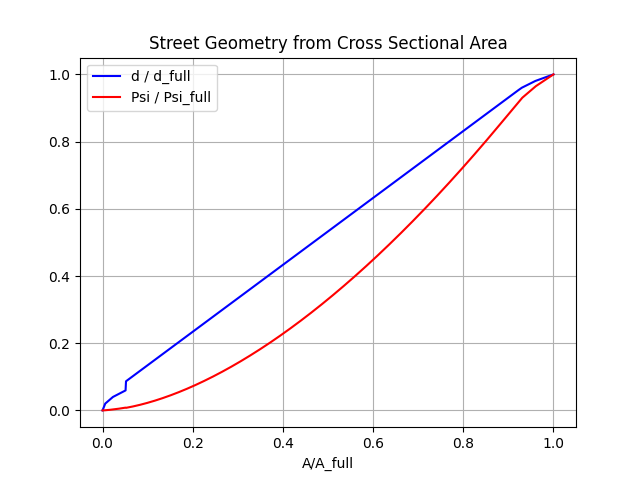
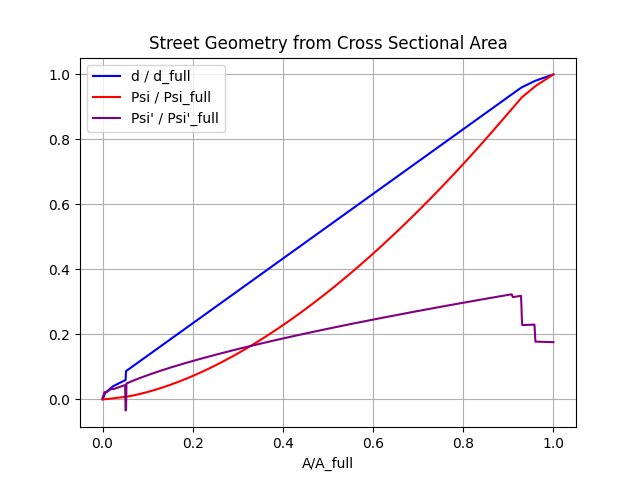
fixed stuff

diff --git a/app/model.py b/app/model.py
@@ -48,7 +48,27 @@ class Model:
         # Setup coupling
         self.coupling = {"subcatchmentRunoff": np.zeros(self.data.shape[0]), "drainCapture": np.zeros(self.data.shape[0]), "drainOverflow": np.zeros(self.data.shape[0])}
 
+        # setup storage for observables
+        self.subcatchmentDepths = []
+        self.runoffs = []
+        self.streetDepths = []
+        self.streetEdgeAreas = []
+        self.sewerDepths = []
+        self.sewerEdgeAreas = []
+        self.drainOverflows = []
+        self.drainInflows = []
+        self.peakDischarges = []
+
+
+
         # TODO: Add whatever we want to report (e.g. depth, flow, etc)
+
+    def run(self):
+        for n in range(len(self.ts)):
+            self.step(n)
+            pprint(f"peakDischarges: {self.peakDischarges}")
+        visualize(self.subcatchment, self.street, self.street.yFull, self.sewer, 0.5, self.subcatchmentDepths, self.runoffs, self.streetDepths, self.streetEdgeAreas, self.sewerDepths, self.sewerEdgeAreas, self.drainOverflows, self.drainInflows, self.rainfallTimes, self.rainfall, self.peakDischarges, self.dt, file=f"{file}{dt}dt", cmap=plt.cm.plasma, fps=5 )
+        
 
 
     def step(self, n):
@@ -56,32 +76,46 @@ class Model:
         newCoupling = {"subcatchmentRunoff": np.zeros(self.data.shape[0]), "drainCapture": np.zeros(self.data.shape[0]), "drainOverflow": np.zeros(self.data.shape[0])}
 
         # Subcatchment Update
-        _, tempRunoff = self.subcatchment.update(self.ts[n], self.dt, self.rain[n])
+        subcatchmentDepth, tempRunoff = self.subcatchment.update(self.ts[n], self.dt, self.rain[n])
         # map runoff to correct indexes and add to coupling terms
         for i in range(len(tempRunoff)):
             # pprint(f' street id for subcatchment: {self.subcatchment.G.vs[i]["coupledStreet"]-1}')
             newCoupling["subcatchmentRunoff"][self.subcatchment.G.vs[i]["coupledStreet"]-1] = tempRunoff[i]
 
         # Street Update
-        _, _, tempCoupling, _ = self.street.update(self.ts[n],self.dt,self.coupling)
+        streetDepth, streetEdgeArea, tempCoupling, streetPeakDischarge = self.street.update(self.ts[n],self.dt,self.coupling)
         # pprint(f"after street: {tempCoupling}")
         newCoupling["drainCapture"] = tempCoupling["drainCapture"]
 
 
         # Sewer Update
-        _, _, tempCoupling, _ = self.sewer.update(self.ts[n],self.dt,self.coupling)
+        sewerDepth, sewerEdgeArea, tempCoupling, sewerPeakDischarge = self.sewer.update(self.ts[n],self.dt,self.coupling)
         newCoupling["drainOverflow"] = tempCoupling["drainOverflow"]
 
-        pprint(self.sewer.G.es["Q1"])
+        # pprint(self.sewer.G.es["Q1"])
 
         # Call observable functions
+        self.subcatchmentDepths.append(subcatchmentDepth)
+        self.runoffs.append(np.zeros(self.subcatchment.G.vcount()))
+        self.streetDepths.append(streetDepth)
+        self.streetEdgeAreas.append(streetEdgeArea)
+        self.sewerDepths.append(sewerDepth)
+        self.sewerEdgeAreas.append(sewerEdgeArea)
+        self.drainOverflows.append(np.zeros(self.street.G.vcount()))
+        self.drainInflows.append(np.zeros(self.sewer.G.vcount()))
+        self.peakDischarges.append(streetPeakDischarge+sewerPeakDischarge)
+
+        
         # pprint(f"New Coupling: {newCoupling}")
 
         # Update Coupling Terms
         self.coupling["subcatchmentRunoff"] = newCoupling["subcatchmentRunoff"]
         self.coupling["drainCapture"] = newCoupling["drainCapture"]
         self.coupling["drainOverflow"] = newCoupling["drainOverflow"]
+
         
+
+
         
 
 
@@ -97,6 +131,6 @@ if __name__ == "__main__":
             }
     dt = 1800
     model = Model(file, dt, rainInfo, oldwaterRatio=0.2)
-    for i in range(100):
-        model.step(i)
+    model.run()
+
 

diff --git a/app/hydraulicGraph.py b/app/hydraulicGraph.py
@@ -205,8 +205,8 @@ class HydraulicGraph:
                 if self.G.vs[nid]["drain"] == 1:
                     # pprint(f"Previous Q: {self.G.es[eid]["Q1Prev"]}\nPrevious A: {self.G.es[eid]["A1Prev"]}")
                     coupledInputs["drainCapture"][self.G.vs[nid]["coupledID"]-1] = capturedFlow(self.G.es[eid]["Q1Prev"], self.G.es[eid]["A1Prev"], self.G.es[eid]["slope"], self.G.es[eid]["Sx"], self.G.vs[nid]["drainLength"], self.G.vs[nid]["drainWidth"], self.G.es[eid]["n"])
-                    pprint(f'Q: {self.G.es[eid]["Q1Prev"]}\n A: {self.G.es[eid]["A1Prev"]}\n slope: {self.G.es[eid]["slope"]}\n Sx: {self.G.es[eid]["Sx"]}\n drain length: {self.G.vs[nid]["drainLength"]}\n drain width: {self.G.vs[nid]["drainWidth"]}\n {self.G.es[eid]["n"]}')
-                    pprint(f"capturedFlow for {nid}: {coupledInputs['drainCapture'][self.G.vs[nid]["coupledID"]-1]}")
+                    # pprint(f'Q: {self.G.es[eid]["Q1Prev"]}\n A: {self.G.es[eid]["A1Prev"]}\n slope: {self.G.es[eid]["slope"]}\n Sx: {self.G.es[eid]["Sx"]}\n drain length: {self.G.vs[nid]["drainLength"]}\n drain width: {self.G.vs[nid]["drainWidth"]}\n {self.G.es[eid]["n"]}')
+                    # pprint(f"capturedFlow for {nid}: {coupledInputs['drainCapture'][self.G.vs[nid]["coupledID"]-1]}")
                 drainCaptureIncomingFlow = 0
                 drainCaptureOutgoingFlow = -1* coupledInputs["drainCapture"][self.G.vs[nid]["coupledID"]-1]
                 if drainCaptureOutgoingFlow > 0:
@@ -341,6 +341,11 @@ class HydraulicGraph:
         # return self.G.es[eid]["A1"], self.G.es[eid]["A2"], self.G.es[eid]["Q1"], self.G.es[eid]["Q2"]
         # return self.G.vs['depth'], averageArea, drainInflow, peakDischarge
         averageArea = np.divide(self.G.es['A1'] + self.G.es['A2'],2.0) 
+
+        if self.graphType == "STREET":
+            peakDischarge = np.max(self.G.es['Q2'])
+        else:
+            peakDischarge = 0
         return self.G.vs['depth'], averageArea, coupledInputs, peakDischarge
 
 

diff --git a/app/streetGeometry.py b/app/streetGeometry.py
@@ -249,7 +249,7 @@ def plotStreetFunctions(diam):
     plt.plot(As,Ys, label="d / d_full", color="blue")
     plt.plot(As,Psis, label="Psi / Psi_full", color="red")
     # plt.plot(As,Hs, label="H / H_full", color="purple")
-    # plt.plot(As,PsiPrimes, label="Psi' / Psi'_full", color="purple")
+    plt.plot(As,PsiPrimes, label="Psi' / Psi'_full", color="purple")
     plt.legend()
     plt.grid(True)
     plt.xlabel("A/A_full")

diff --git a/app/cloggedDrain.py b/app/cloggedDrain.py
@@ -1,0 +1,13 @@
+import pandas as pd
+from pprint import pprint
+
+# For reference
+if __name__ == "__main__":
+    file = "largerExample"
+    data = pd.read_csv(f"data/{file}.csv")
+    pprint(data)
+    data["drainLength"] = data["drainLength"] / 2
+    model(data)
+    pprint(data)
+
+    
